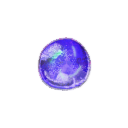
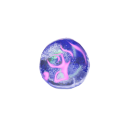
RemoveRelic backend, new MysteriousCore art, starter upgrade relic removal

Changed region(s): [[0.2812, 0.2812, 0.7188, 0.7188]]

diff --git a/src/main/java/aspiration/Aspiration.java b/src/main/java/aspiration/Aspiration.java
@@ -1,5 +1,6 @@
 package aspiration;
 
+import aspiration.Utility.RelicUtils;
 import aspiration.cards.blue.Polymerization;
 import aspiration.cards.green.Lunge;
 import aspiration.events.CultistTraining;
@@ -43,6 +44,9 @@ import com.megacrit.cardcrawl.localization.*;
 import com.megacrit.cardcrawl.powers.AbstractPower;
 import com.megacrit.cardcrawl.random.Random;
 import com.megacrit.cardcrawl.relics.AbstractRelic;
+import com.megacrit.cardcrawl.relics.BlackBlood;
+import com.megacrit.cardcrawl.relics.FrozenCore;
+import com.megacrit.cardcrawl.relics.RingOfTheSerpent;
 import org.apache.logging.log4j.LogManager;
 import org.apache.logging.log4j.Logger;
 
@@ -419,17 +423,17 @@ public class Aspiration implements
     public void receivePostDungeonInitialize()
     {
         if (weakPoetsPenEnabled()) {
-            if (AbstractDungeon.bossRelicPool.removeIf(r -> r.equals(PoetsPen.ID))) {
+            if (RelicUtils.removeRelicFromPool(PoetsPen.ID)) {
                 logger.info(PoetsPen.ID + " removed.");
             }
         } else {
-        	if (AbstractDungeon.bossRelicPool.removeIf(r -> r.equals(PoetsPen_weak.ID))) {
+            if (RelicUtils.removeRelicFromPool(PoetsPen_weak.ID)) {
                 logger.info(PoetsPen_weak.ID + " removed.");
             }
         }
 
         if (!SpawnRNG()) {
-            if (AbstractDungeon.bossRelicPool.removeIf(r -> r.equals(RandomNobGenerator.ID))) {
+            if (RelicUtils.removeRelicFromPool(RandomNobGenerator.ID)) {
                 logger.info(RandomNobGenerator.ID + " removed.");
             }
         }
@@ -453,13 +457,19 @@ public class Aspiration implements
                 skillbookPool.forEach(sb -> logger.info("Removed Skillbook: " + sb.name));
             }
         }
-        /*for(Iterator<String> it = AbstractDungeon.bossRelicPool.iterator();it.hasNext(); ) {
-            String r = it.next();
-            AbstractRelic tmp = RelicLibrary.getRelic(r);
-            if (tmp instanceof SkillbookRelic && skillbookPool.contains(tmp)) {
-                AbstractDungeon.bossRelicPool.remove(tmp);
-            }
-        }*/
+
+        //Spawn only one set of Starter relic replacements per run
+        if(rng.randomBoolean()) {
+            RelicUtils.removeRelicFromPool(RingOfOuroboros.ID);
+            RelicUtils.removeRelicFromPool(BursterCore.ID);
+            RelicUtils.removeRelicFromPool(InfernalBlood.ID);
+            logger.info("Removed alternate starter relic replacements.");
+        } else {
+            RelicUtils.removeRelicFromPool(RingOfTheSerpent.ID);
+            RelicUtils.removeRelicFromPool(FrozenCore.ID);
+            RelicUtils.removeRelicFromPool(BlackBlood.ID);
+            logger.info("Removed original starter relic replacements.");
+        }
     }
     
     @Override

diff --git a/src/main/java/aspiration/Utility/RelicUtils.java b/src/main/java/aspiration/Utility/RelicUtils.java
@@ -1,6 +1,7 @@
 package aspiration.Utility;
 
 import com.megacrit.cardcrawl.dungeons.AbstractDungeon;
+import com.megacrit.cardcrawl.helpers.RelicLibrary;
 import com.megacrit.cardcrawl.relics.AbstractRelic;
 
 public class RelicUtils {
@@ -37,7 +38,24 @@ public class RelicUtils {
         return true;
     }
 
+    public static boolean removeRelicFromPool(String rel, boolean allPools) {
+        if(allPools) {
+            AbstractDungeon.bossRelicPool.removeIf(id -> id.equals(rel));
+            AbstractDungeon.shopRelicPool.removeIf(id -> id.equals(rel));
+            AbstractDungeon.rareRelicPool.removeIf(id -> id.equals(rel));
+            AbstractDungeon.uncommonRelicPool.removeIf(id -> id.equals(rel));
+            AbstractDungeon.commonRelicPool.removeIf(id -> id.equals(rel));
+        } else {
+            AbstractRelic r = RelicLibrary.getRelic(rel);
+            return removeRelicFromPool(r, false);
+        }
+        return true;
+    }
+
     public static boolean removeRelicFromPool(AbstractRelic r) {
+        return removeRelicFromPool(r, false);
+    }
+    public static boolean removeRelicFromPool(String r) {
         return removeRelicFromPool(r, false);
     }
 }
